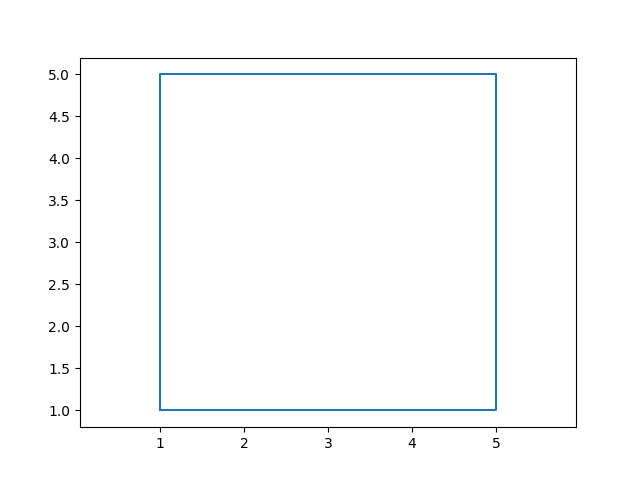
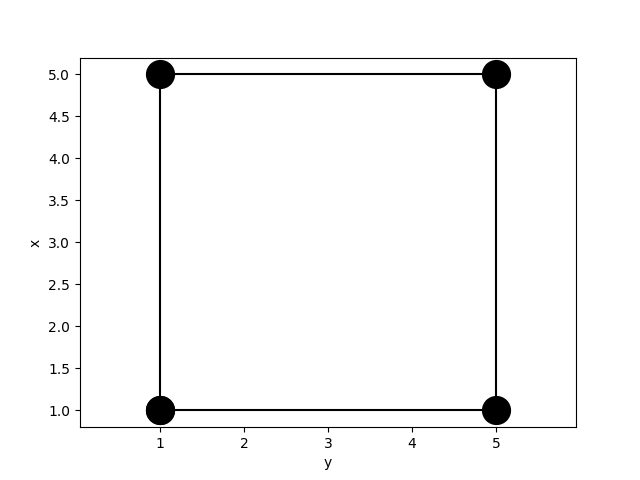
qwqw

Changed region(s): [[0.2188, 0.8125, 0.8125, 0.9062], [0.2188, 0.125, 0.8125, 0.1875], [0.0312, 0.5, 0.0625, 0.5312]]

diff --git a/task_2.py b/task_2.py
@@ -1,8 +1,17 @@
 import matplotlib.pyplot as plt
 import numpy as np
-def hyperbola_plot(x_min, x_max, N)
-x = np.linspace(x_min, x_max, N)
-y = 1/x
-plt.xlabel('Coord: x') 
-plt.ylabel('Coord: y') 
-plt.title('Hyperbola')
+def hyperbola_plot( x_min, x_max, N):
+    x = np.linspace(x_min, x_max, N)
+    y = 1/x
+    plt.plot(x,y)
+    plt.xlabel('x') 
+    plt.ylabel('y') 
+    plt.title('hyperbola')
+    plt.show()
+
+
+x_min = -10
+x_max = 10
+N = 100
+hyperbola_plot( b, x_min, x_max, N)
+plt.savefig('fig_8.png')

diff --git a/task_1.py b/task_1.py
@@ -1,6 +1,6 @@
 import matplotlib.pyplot as plt
 x = [1,1,5,5,1]
 y = [1,5,5,1,1]
-plt.plot(x,y)
+plt.plot(x,y, color = 'black', marker = 'o', ms = 20)
 plt.axis('equal')
 plt.savefig('fig_5.png')
